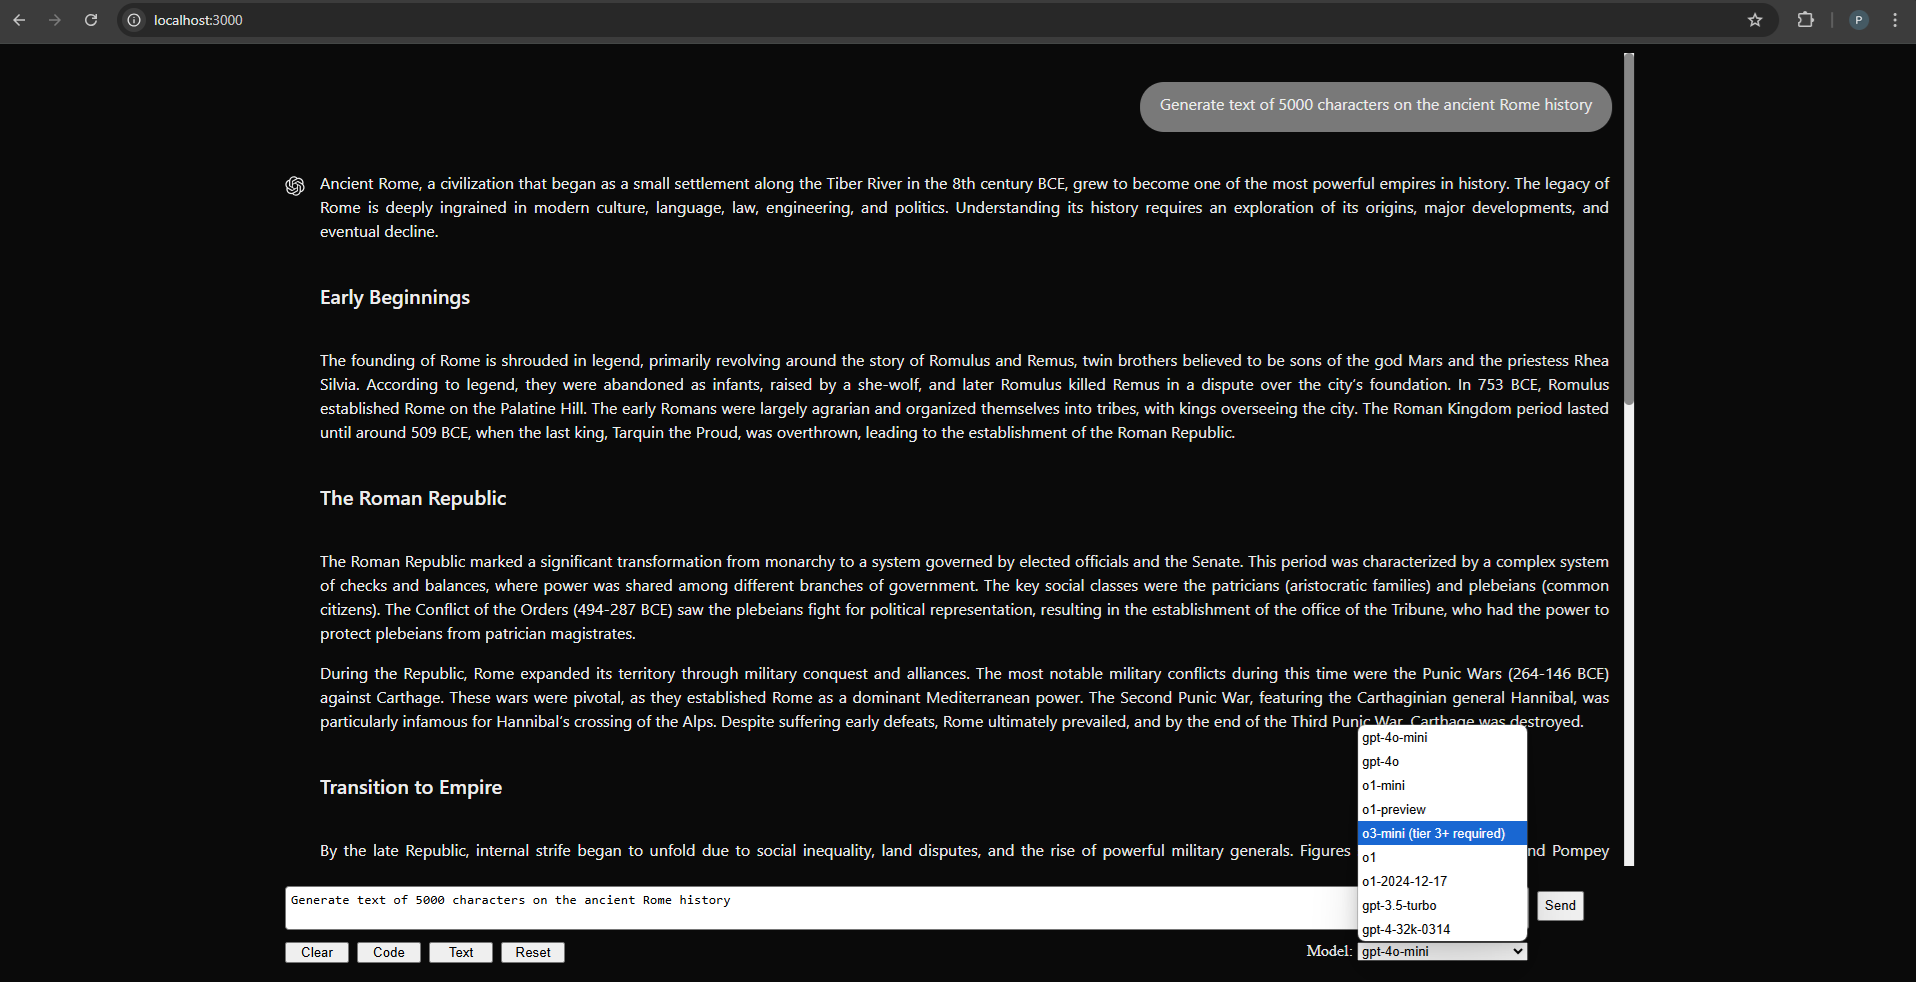
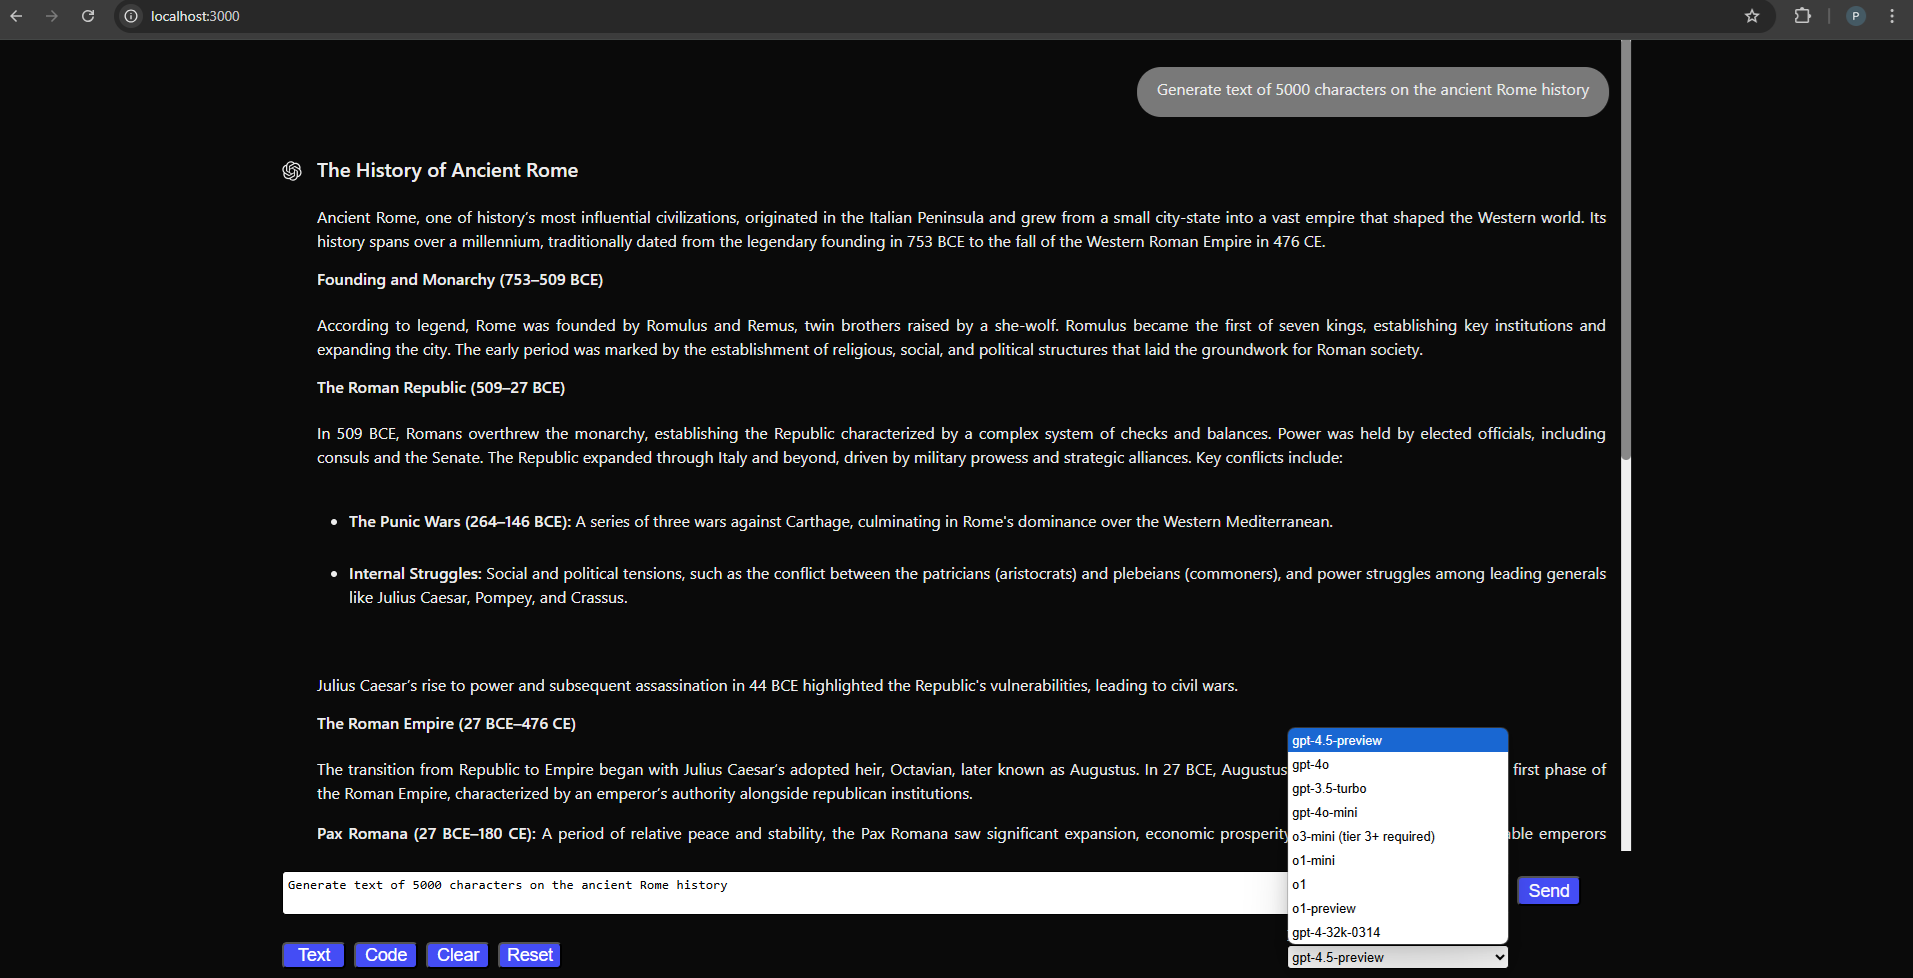
Added gpt-4.5-preview

Changed region(s): [[0.1234, 0.1534, 0.8636, 1.0], [0.0, 0.0, 1.0, 0.1534]]

diff --git a/README.md b/README.md
@@ -89,6 +89,8 @@ http://localhost:3000
 
 ![Output with code block formatting in the dark system theme](docs/images/3_code-block-formatting.png "Output with code block formatting in the dark system theme")
 
+![Output in mobile view in the light system theme](docs/images/5_mobile-view.png "Output in mobile view in the light system theme")
+
 # Minimal ChatGPT server powered by express.js with streaming outputs
 
 By default, the server supports the following types of requests to OpenAI instances:
